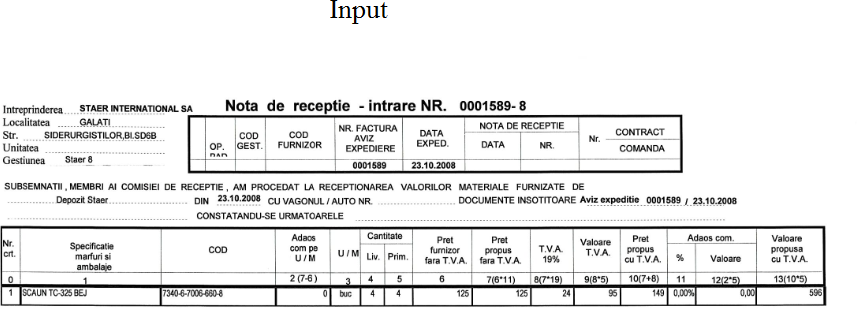
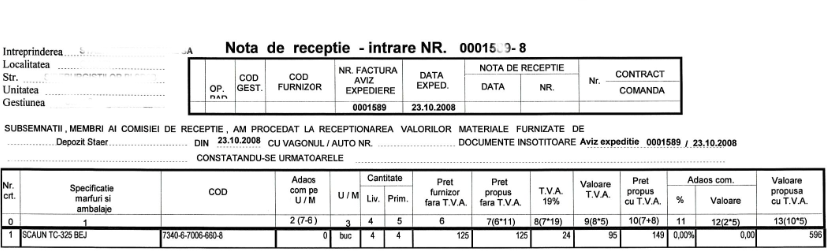
updated images

diff --git a/ml.py b/ml.py
@@ -37,7 +37,7 @@ class RandomizeDistort():
         self.anglepos = 0.098
 
         #TODO: randomize incline
-        self.incline = 50
+        self.incline = 100
 
         self.mask = []
 
@@ -152,6 +152,10 @@ class RandomizeDistort():
         self._incline()
 
         if min(self.y_values) < 0: self._normalize()
+
+        self.display()
+        self.display('plot')
+        self.display('distort')
 
         self._fillMask()
 
